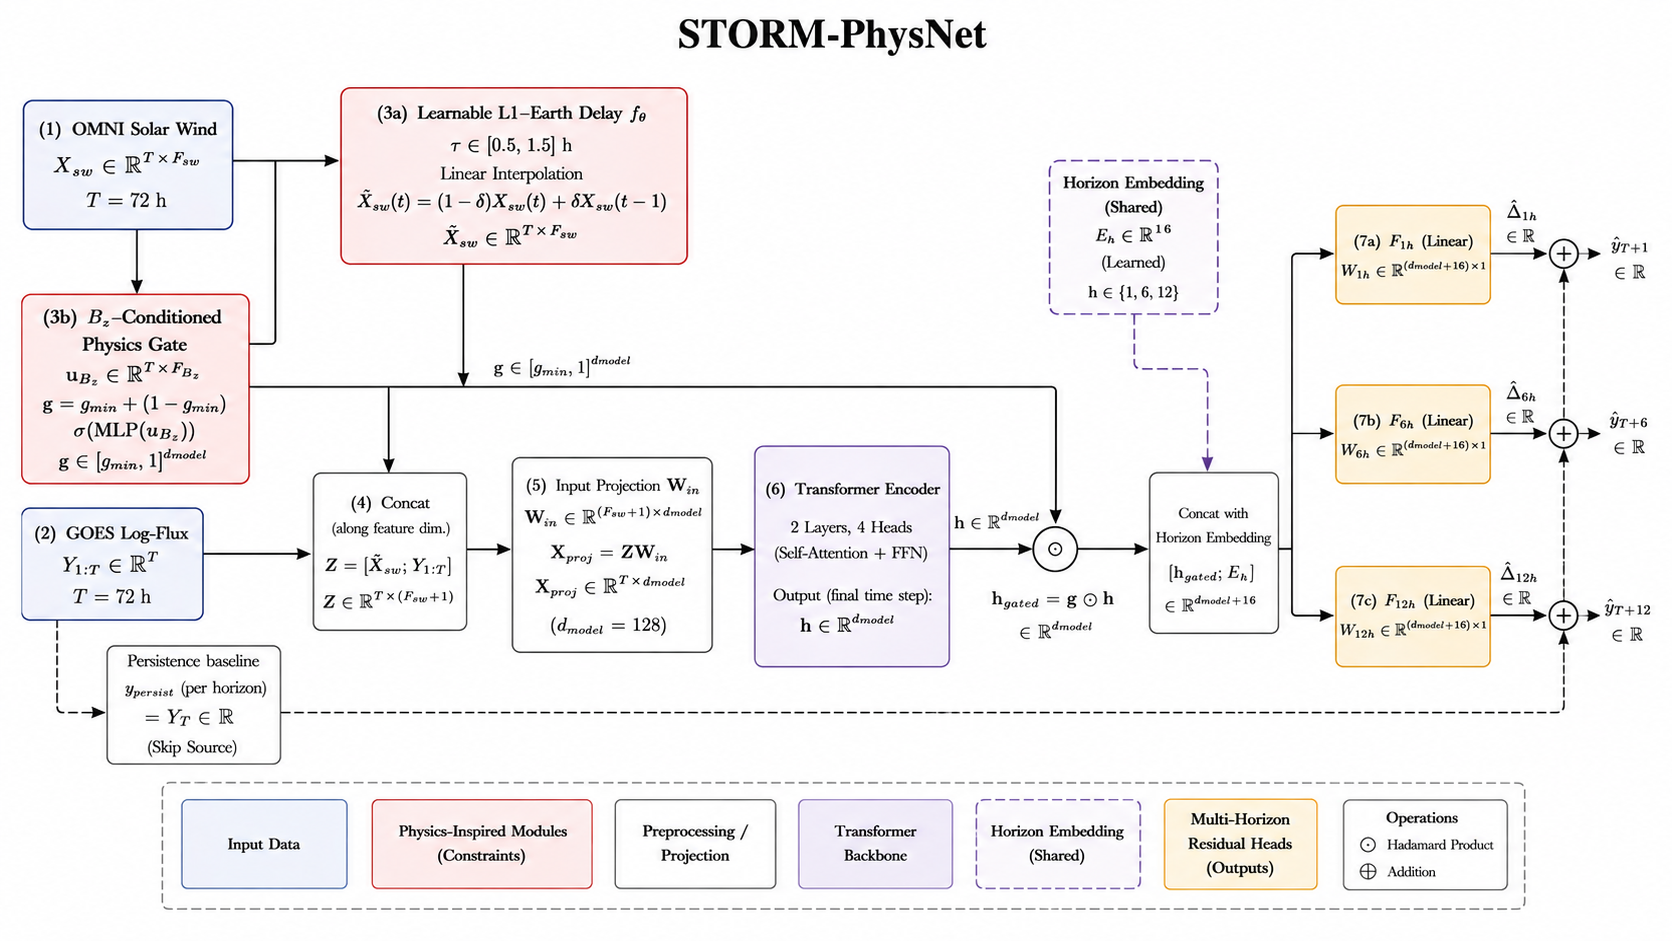
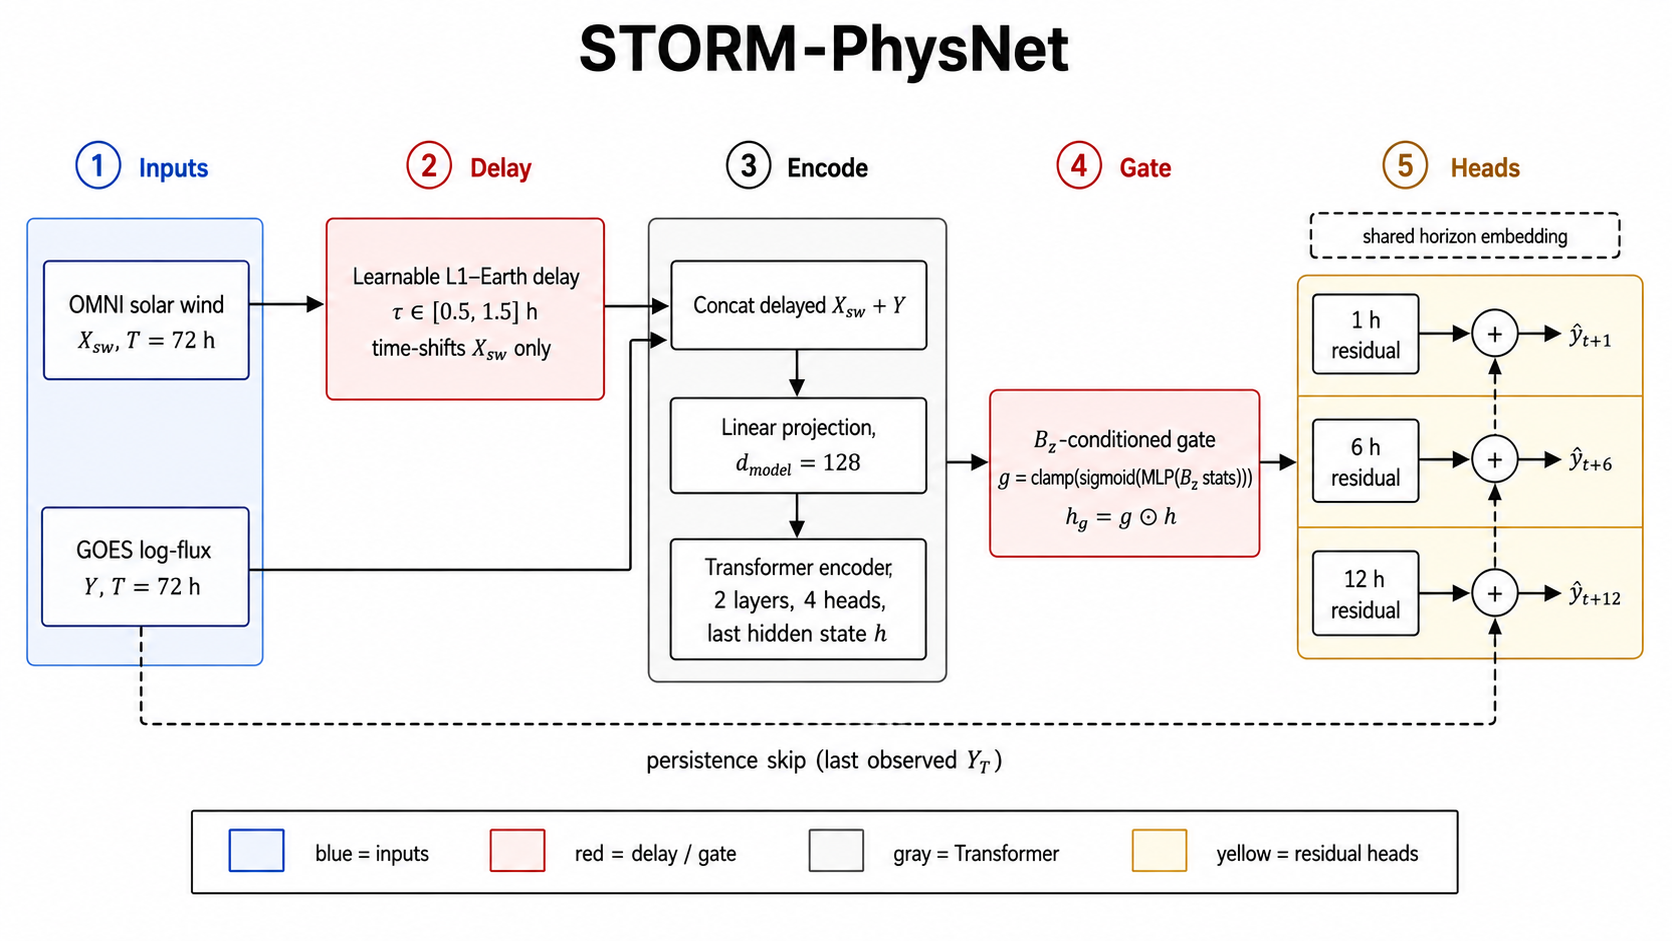
Update architecture figure and caption

Changed region(s): [[0.0, 0.0, 0.9952, 0.9554], [0.622, 0.1541, 0.7153, 0.339], [0.8086, 0.1541, 0.9019, 0.1849]]

diff --git a/paper/STORM_PhysNet_Conference.tex b/paper/STORM_PhysNet_Conference.tex
@@ -133,12 +133,11 @@ path at \(\approx 82^\circ\)E is the transfer setting studied here.
 \begin{figure*}[!t]
 \centering
 \includegraphics[width=0.95\textwidth]{figures/fig_system_architecture.png}
-\caption{STORM-PhysNet: OMNI solar wind is delay-aligned ($\tau\in[0.5,1.5]\,\mathrm{h}$)
-and concatenated with GOES log-flux ($T=72\,\mathrm{h}$), projected to
-$d_{\mathrm{model}}=128$, and encoded by a 2-layer, 4-head Transformer.
-A $B_z$-conditioned gate modulates the final representation; three residual heads
-with shared horizon embeddings ($d_e=16$) predict corrections over persistence
-at 1\,h, 6\,h, and 12\,h.}
+\caption{STORM-PhysNet. OMNI solar wind is delay-aligned ($\tau\in[0.5,1.5]$~h) and
+concatenated with GOES log-flux ($T=72$~h), projected to $d_{\mathrm{model}}=128$,
+and encoded by a 2-layer, 4-head Transformer. A $B_z$-conditioned gate modulates
+the last hidden state; three residual heads add a persistence skip at 1~h, 6~h,
+and 12~h.}
 \label{fig:arch}
 \end{figure*}
 
